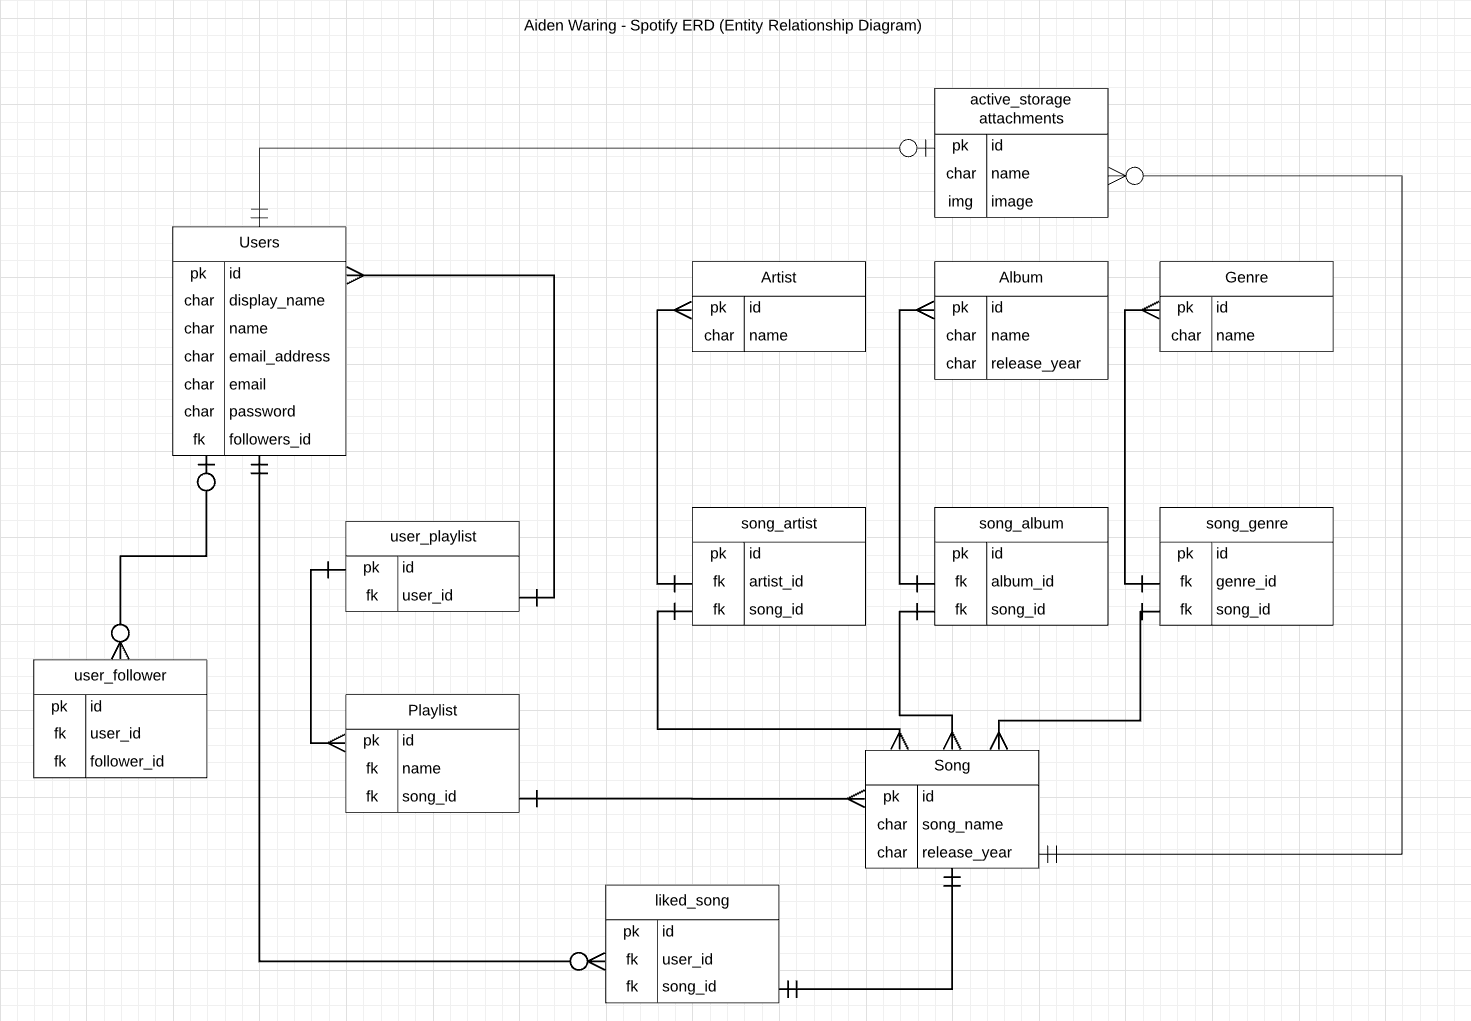
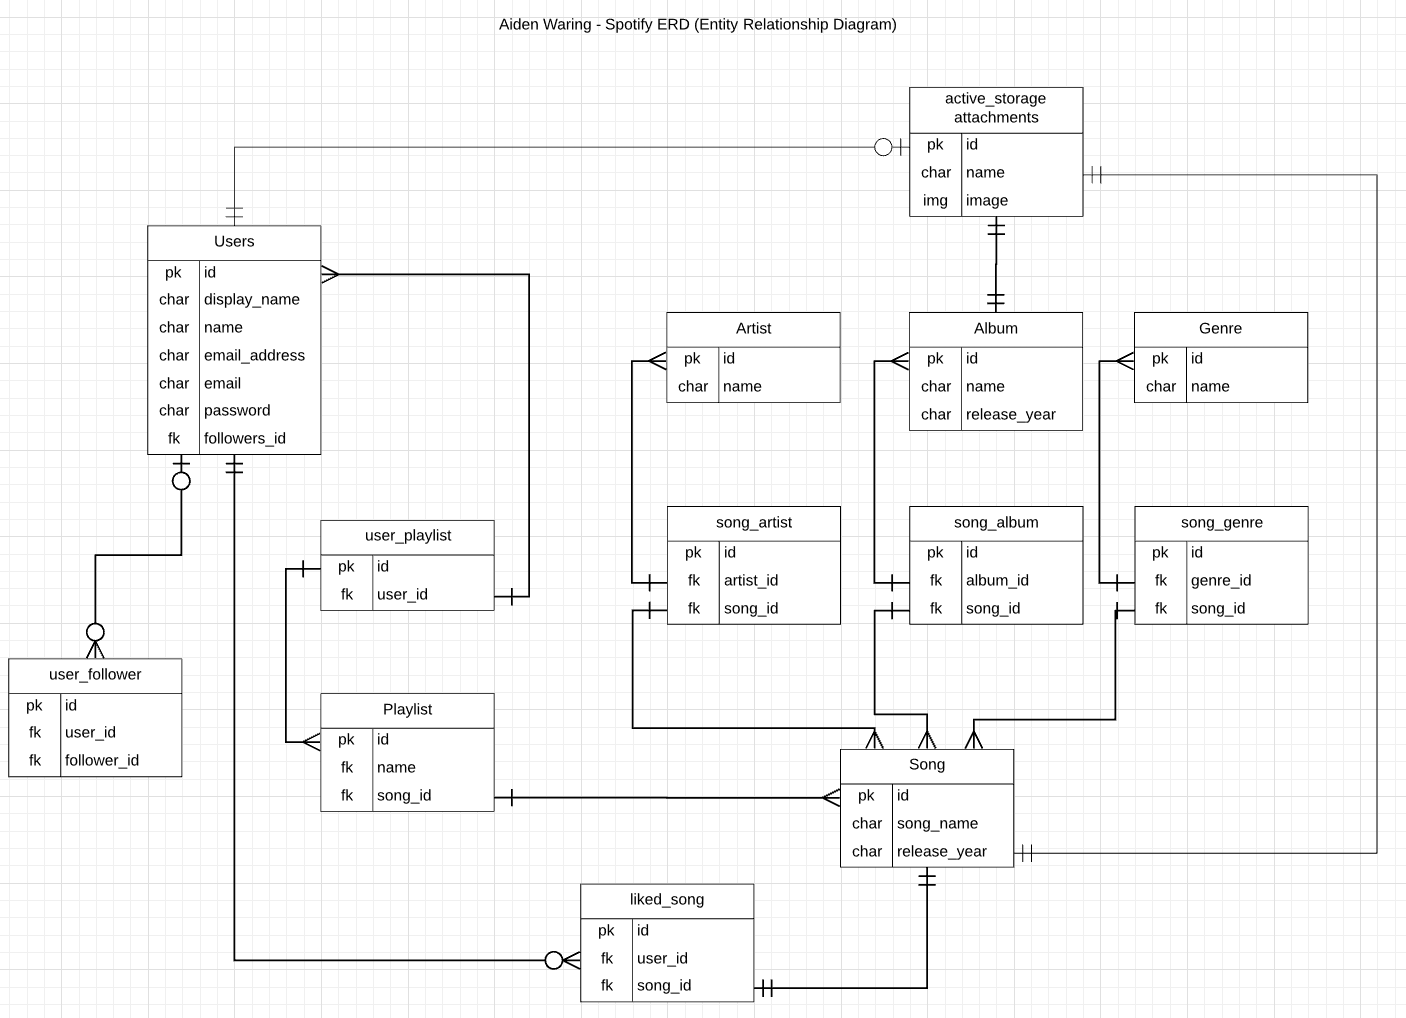
Updated ERD diagram, changed readme content

diff --git a/README.md b/README.md
@@ -301,8 +301,6 @@ Identify and explain the workings of TWO search algorithms and discuss and compa
 
 Companies (including ACME Corporation) value previous project experience and case studies. The following set of questions relate to this RfQ-requirement.
 
-Case Study: Spotify
-
 Conduct research into a marketplace website (app) and answer the following parts:  
 a. List and describe the software used by the app.
 b. Describe the hardware used to host the app.
@@ -334,7 +332,7 @@ List of software used by the app:
 
 ##### b. Hardware
 
-Spotify uses the Google Cloud Platform for their hosting infrastrucutre, having moved from their own phyisical servers back in 2018.[Reference](https://labs.spotify.com/2019/12/09/views-from-the-cloud-a-history-of-spotifys-journey-to-the-cloud-part-1/)
+Spotify uses the Google Cloud Platform for their hosting infrastructure, having moved from their own physical servers back in 2018.[Reference](https://labs.spotify.com/2019/12/09/views-from-the-cloud-a-history-of-spotifys-journey-to-the-cloud-part-1/) The transition into the cloud began back in 2015. Traffic was slowly migrated over to Google Cloud Platform from May 2017 through to 2018. Moving away from on-premise infrastructure allowed Spotify to scale their services to a growing user audience much faster and more flexibly, and beginning to take full advantage of the benefits that the cloud brings such as machine learning.
 
 ##### c. Interaction of Technologies
 
@@ -363,6 +361,9 @@ NoSQL is the term used to refer to a non-relational database.
 As of 2015, Spotify runs over 100 production-level Cassandra clusters.[Reference](https://labs.spotify.com/2015/09/21/cassandra-data-driven-configuration/) A cluster is a collection of nodes that represents a single system, which collectively represent a databse model. [Reference](https://data-flair.training/blogs/cassandra-cluster/)
 NoSQL databases are commonly used for larger data sets due to their flexibility in structure and scalability. [Reference](https://db-engines.com/en/blog_post/23)
 Spotify uses Cassandra to store user profile attributes, metadata about artists, songs and more for better personalization."[Reference](https://labs.spotify.com/2015/01/09/personalization-at-spotify-using-cassandra)
+
+A generalisation of the data structure in use is that a user subscribes to Spotify's service and gains access to a database of songs that can be played or 'streamed' over the internet. Spotify provides play of these songs for free, though provides a premium subscription service to enhance the experience. Users that promote themselves as arists may provide their songs for streaming on Spotify's service and get paid a percentage amount per stream.
+Users are able to follow other users, discover arists, save songs and add them to playlists for future playback.
 
 ##### e. Tracked Entities
 
